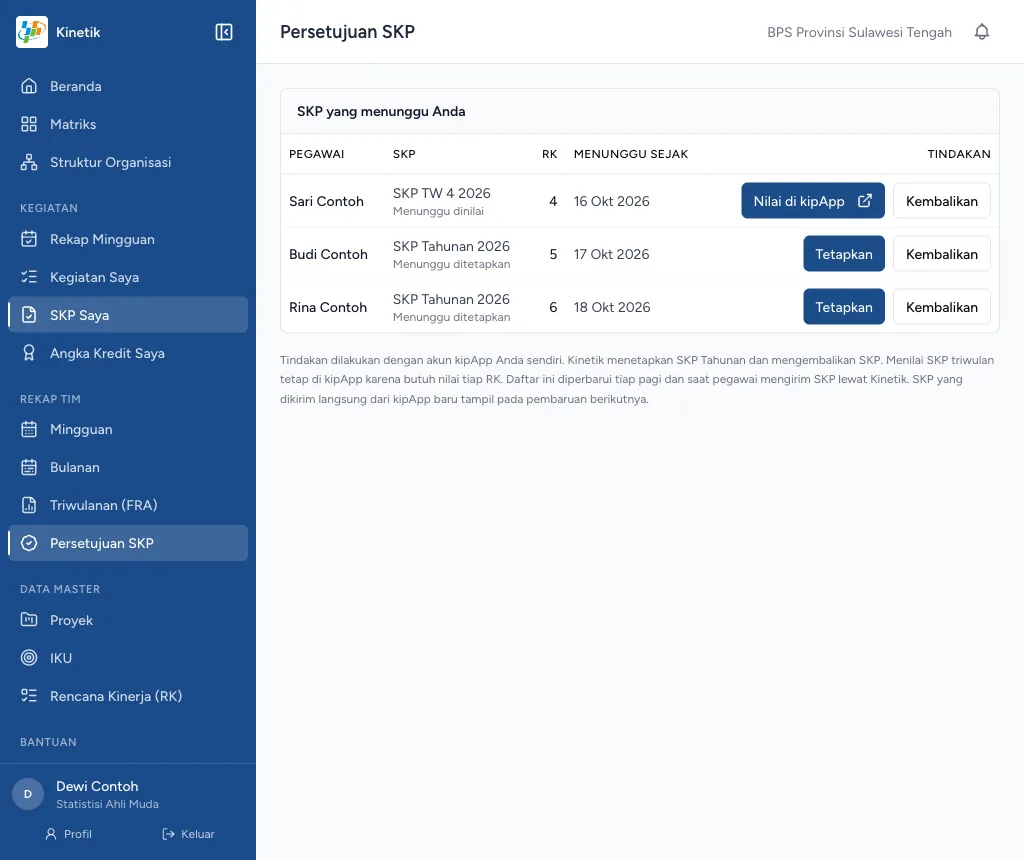
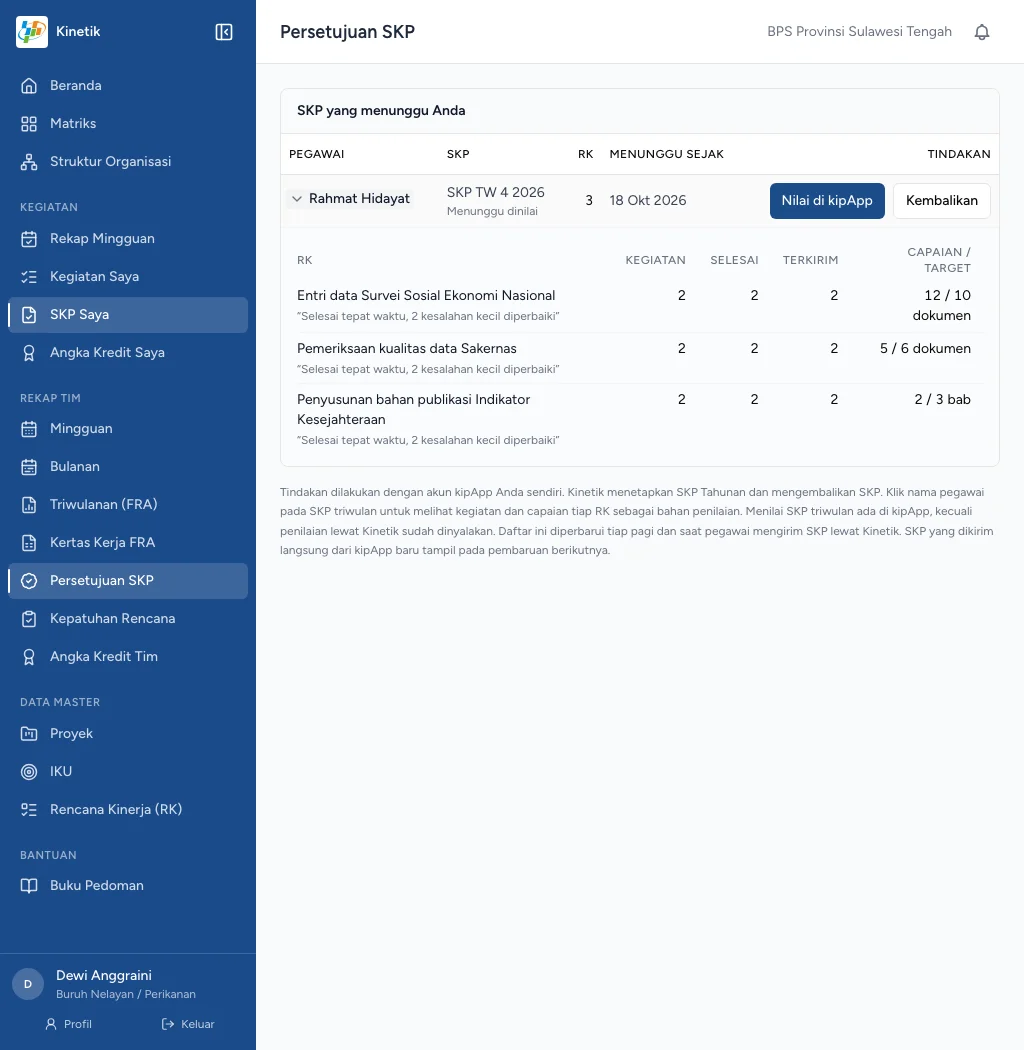
docs(skp): Buku Pedoman explains the evidence panel and the Nilai SKP page that is still off

diff --git a/resources/js/data/guide.ts b/resources/js/data/guide.ts
@@ -65,7 +65,7 @@ export const SHOTS = {
     },
     skpPersetujuan: {
         src: '/images/pedoman/skp-persetujuan.webp',
-        alt: 'Halaman Persetujuan SKP: daftar SKP yang menunggu atasan dengan tombol Tetapkan, Nilai di kipApp dan Kembalikan',
+        alt: 'Halaman Persetujuan SKP: SKP triwulan yang menunggu dinilai dengan rincian kegiatan dan capaian tiap RK, tombol Nilai di kipApp dan Kembalikan',
         width: 1024, height: 860,
         markers: [
             { n: 1, x: 30, y: 13, label: 'Hanya SKP yang atasannya Anda dan sedang menunggu.' },
@@ -265,7 +265,7 @@ export const GUIDE_FLOWS: GuideFlow[] = [
                 body: [
                     'Halaman ini menunjukkan SKP Anda di kipApp: SKP Tahunan dengan tahapnya, dan SKP tiap triwulan dengan status, jumlah RK dan jumlah kegiatan.',
                     'Urutan di kipApp: (1) RK dan IKI SKP Tahunan dibuat di kipApp, (2) SKP Tahunan dikirim lalu ditetapkan atasan, (3) SKP triwulan dibuat, (4) kegiatan diisi, (5) SKP triwulan dikirim dan dinilai atasan.',
-                    'Atasan menetapkan SKP Tahunan di halaman Persetujuan SKP Kinetik atau di kipApp, dengan akun kipApp-nya sendiri. Menilai SKP triwulan tetap di kipApp. Anda melihat statusnya di sini dan mendapat notifikasi saat atasan menetapkan atau mengembalikan.',
+                    'Atasan menetapkan SKP Tahunan di halaman Persetujuan SKP Kinetik atau di kipApp, dengan akun kipApp-nya sendiri. Menilai SKP triwulan di kipApp. Anda melihat statusnya di sini dan mendapat notifikasi saat atasan menetapkan atau mengembalikan.',
                     'SKP Tahunan yang masih Sedang dibuat bisa dikirim dari halaman ini dengan "Kirim untuk ditetapkan". Syaratnya sama seperti kipApp: minimal satu RK dan setiap RK punya IKI.',
                 ],
                 shot: SHOTS.skpSaya,
@@ -422,7 +422,8 @@ export const GUIDE_FLOWS: GuideFlow[] = [
                 body: [
                     'Saat pegawai mengirim SKP lewat Kinetik, Anda mendapat notifikasi. Halaman ini mendaftar SKP yang atasannya Anda dan sedang menunggu: SKP Tahunan yang menunggu ditetapkan, dan SKP triwulan yang menunggu dinilai.',
                     '"Tetapkan" menetapkan SKP Tahunan. "Kembalikan" mengirim SKP kembali ke pegawai. Kinetik bertanya dulu, lalu bekerja dengan akun kipApp Anda sendiri, jadi Anda harus sudah masuk ke Kinetik dengan kata sandi SSO.',
-                    'SKP triwulan dinilai di kipApp lewat tombol "Nilai di kipApp", karena penilaian butuh nilai tiap RK dan perilaku.',
+                    'Klik nama pegawai pada SKP triwulan untuk membuka bahan penilaian: tiap RK dengan jumlah kegiatan, yang selesai, yang terkirim ke kipApp, capaian terhadap target, dan catatan capaian. Data ini dari Kinetik, jadi Anda menilai dengan bukti di depan mata.',
+                    'SKP triwulan dinilai di kipApp lewat tombol "Nilai di kipApp". Halaman Nilai SKP di Kinetik (nilai dan umpan balik tiap RK dan perilaku BerAKHLAK, lalu "Selesai menilai") sudah dibuat tetapi belum dinyalakan, karena menilai SKP berarti mengisi nilai resmi seseorang dan belum pernah kami uji langsung. Kami menyalakannya bersama atasan saat penilaian pertama.',
                     'Daftar diperbarui tiap pagi dan saat pegawai mengirim lewat Kinetik. SKP yang dikirim langsung dari kipApp baru tampil pada pembaruan berikutnya.',
                     'Tetapkan dan Kembalikan mengikuti kode kipApp sendiri. Kami belum menguji penetapan langsung karena semua SKP Tahunan kantor ini sudah Ditetapkan.',
                 ],

diff --git a/resources/js/Components/Kinetik/SkpEvidenceTable.vue b/resources/js/Components/Kinetik/SkpEvidenceTable.vue
@@ -14,7 +14,7 @@ const num = (n: number) => new Intl.NumberFormat('id-ID', { maximumFractionDigit
                 <th class="py-1 pr-3 font-medium">RK</th>
                 <th class="px-3 py-1 text-right font-medium">Kegiatan</th>
                 <th class="px-3 py-1 text-right font-medium">Selesai</th>
-                <th class="px-3 py-1 text-right font-medium">Terkirim ke kipApp</th>
+                <th class="px-3 py-1 text-right font-medium">Terkirim</th>
                 <th class="px-3 py-1 text-right font-medium">Capaian / target</th>
             </tr>
         </thead>
